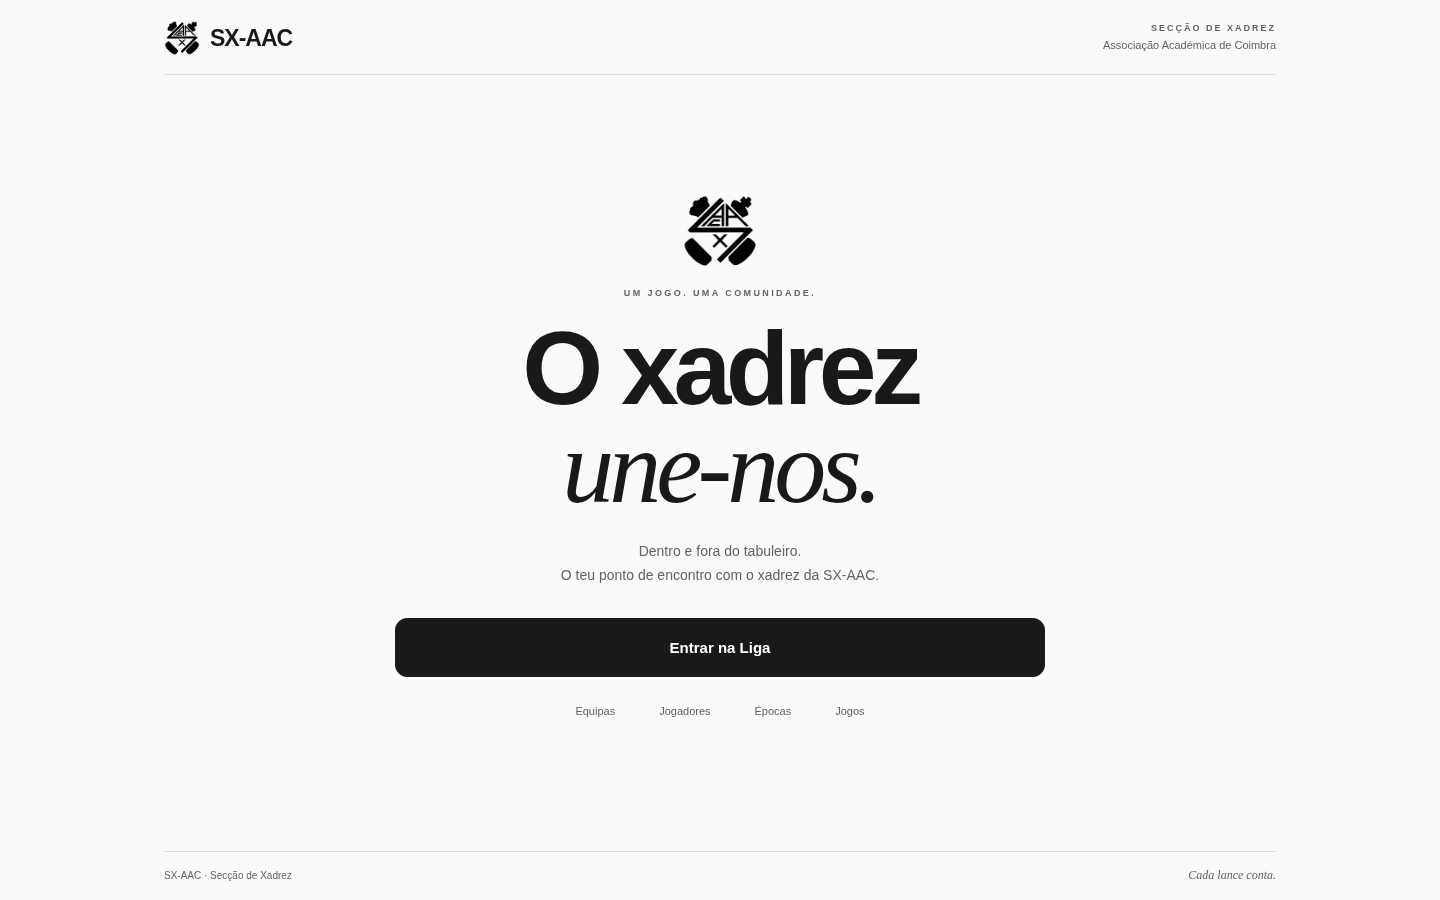
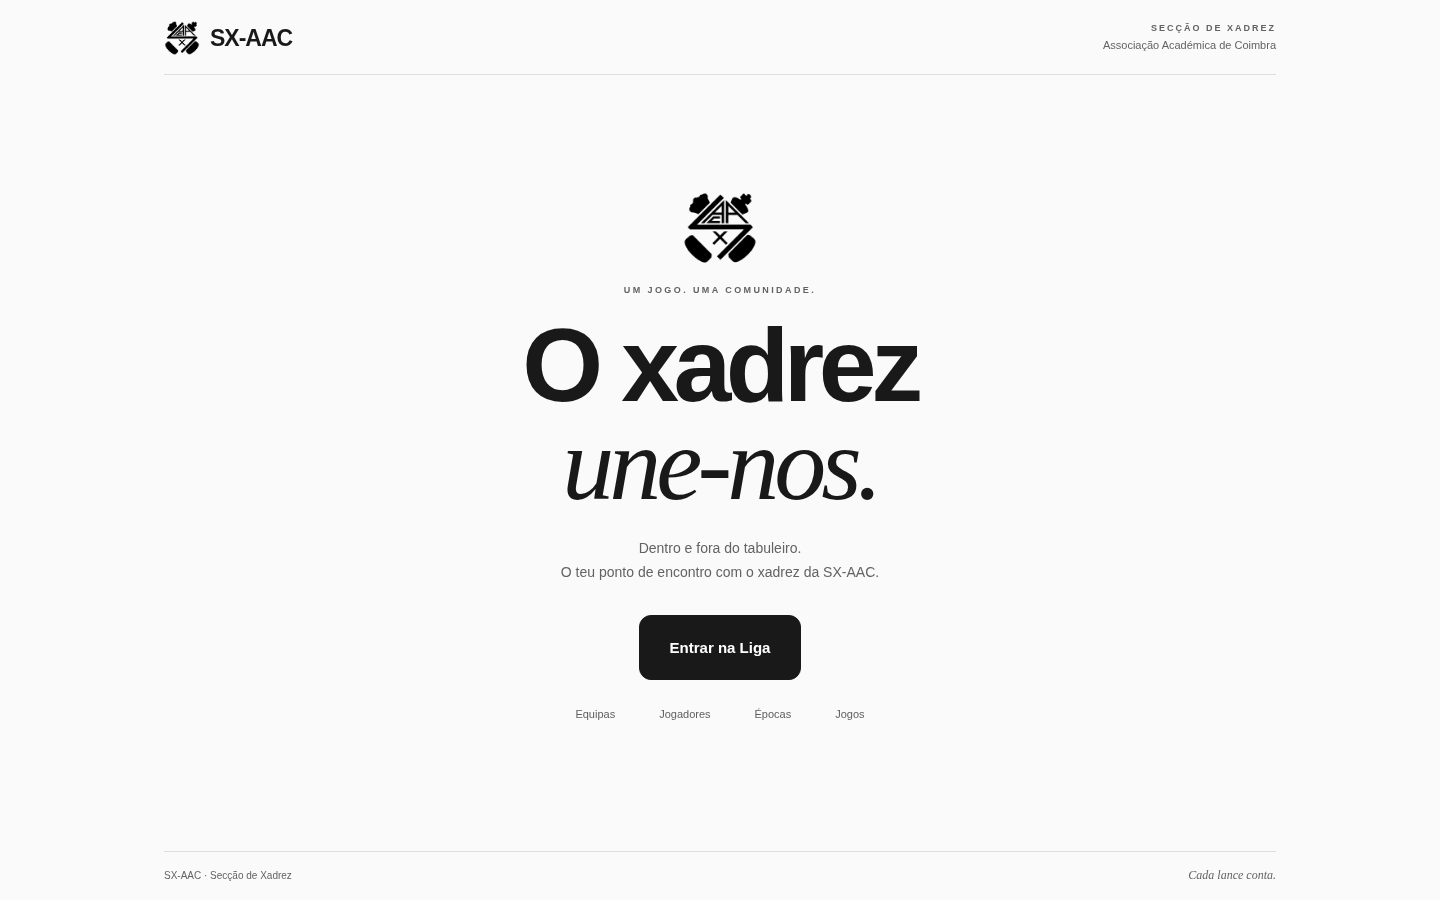
Fit landing League button to its label and increase height

diff --git a/website/landing/style.css b/website/landing/style.css
@@ -18,7 +18,7 @@ h1{font-size:clamp(62px,7.8vw,104px);font-weight:800;letter-spacing:-5.5px;line-
 h1 em{font-family:Georgia,'Times New Roman',serif;font-weight:400;letter-spacing:-5px}
 .description{font-size:14px;line-height:1.7;color:var(--muted);margin:24px 0 0}
 .league-entry{width:100%;max-width:650px}
-.league-button{display:flex;justify-content:center;align-items:center;min-height:52px;font-size:15px;font-weight:700;padding:20px 30px;background:#191919;color:#fff;border:1px solid #191919;border-radius:12px;transition:background .18s,box-shadow .18s}
+.league-button{display:flex;width:fit-content;max-width:100%;margin-inline:auto;justify-content:center;align-items:center;min-height:64px;font-size:15px;font-weight:700;padding:23px 30px;background:#191919;color:#fff;border:1px solid #191919;border-radius:12px;transition:background .18s,box-shadow .18s}
 .league-button:hover{background:#303030;box-shadow:0 8px 24px #00000012}
 .league-button:focus-visible{outline-offset:5px}
 
@@ -32,9 +32,9 @@ h1 em{font-family:Georgia,'Times New Roman',serif;font-weight:400;letter-spacing
 .quick-links a:hover{color:#191919;background:#eeeeee}
 footer{display:flex;align-items:center;justify-content:space-between;gap:16px;padding-top:14px;border-top:1px solid var(--line);font-size:10px;line-height:1.5;color:var(--muted)}
 .footer-motto{font-family:Georgia,'Times New Roman',serif;font-style:italic;font-size:12px}
-@media(max-width:650px){.page{padding:16px 22px 12px}.site-header{padding-bottom:14px}.brand{font-size:21px}.brand img{width:32px;height:32px}.header-note{font-size:7px;letter-spacing:1.3px}.association-name{font-size:9px}main{padding:22px 0;gap:26px}.hero-emblem{width:60px;height:60px;margin-bottom:17px}.eyebrow{font-size:8px;letter-spacing:1.8px;margin-bottom:20px}h1{font-size:clamp(60px,16vw,82px);letter-spacing:-3.5px}h1 em{letter-spacing:-3px}.description{font-size:12px;margin-top:20px;line-height:1.65}.league-button{padding:20px;gap:12px}.quick-links{gap:0;margin-top:8px}.quick-links a{padding-inline:15px;font-size:10px}footer{font-size:9px}.footer-motto{font-size:10px}}
-@media(max-width:360px){.page{padding-inline:18px}.league-button{padding:18px 14px}.quick-links a{padding-inline:12px}}
-@media(max-height:780px){.page{padding-block:12px}.site-header{padding-bottom:10px}main{gap:18px;padding:18px 0}.hero-emblem{width:44px;height:44px;margin-bottom:12px}.eyebrow{margin-bottom:14px}h1{font-size:64px;letter-spacing:-3px}h1 em{letter-spacing:-3px}.description{margin-top:16px}.league-button{padding-block:18px}footer{padding-top:10px}}
-@media(max-height:570px){main{gap:12px;padding:12px 0}.hero-emblem{width:32px;height:32px;margin-bottom:8px}.eyebrow{margin-bottom:10px}h1{font-size:50px;letter-spacing:-2px}h1 em{letter-spacing:-2px}.description{font-size:12px;margin-top:12px}.league-button{padding-block:14px}.quick-links{margin-top:4px}}
-@media(max-height:450px){.page{padding-block:8px}.site-header{padding-bottom:8px}.brand{font-size:19px}.brand img{width:26px;height:26px}.hero-emblem{display:none}main{padding:10px 0;gap:10px}.eyebrow{margin-bottom:8px;font-size:8px}h1{font-size:42px;letter-spacing:-1.5px}h1 br{display:none}h1 em{letter-spacing:-2px}.description{font-size:11px;margin-top:8px}.description br{display:none}.league-button{padding:12px 20px}.quick-links a{min-height:36px}footer{padding-top:8px;font-size:9px}.footer-motto{font-size:10px}}
+@media(max-width:650px){.page{padding:16px 22px 12px}.site-header{padding-bottom:14px}.brand{font-size:21px}.brand img{width:32px;height:32px}.header-note{font-size:7px;letter-spacing:1.3px}.association-name{font-size:9px}main{padding:22px 0;gap:26px}.hero-emblem{width:60px;height:60px;margin-bottom:17px}.eyebrow{font-size:8px;letter-spacing:1.8px;margin-bottom:20px}h1{font-size:clamp(60px,16vw,82px);letter-spacing:-3.5px}h1 em{letter-spacing:-3px}.description{font-size:12px;margin-top:20px;line-height:1.65}.quick-links{gap:0;margin-top:8px}.quick-links a{padding-inline:15px;font-size:10px}footer{font-size:9px}.footer-motto{font-size:10px}}
+@media(max-width:360px){.page{padding-inline:18px}.quick-links a{padding-inline:12px}}
+@media(max-height:780px){.page{padding-block:12px}.site-header{padding-bottom:10px}main{gap:18px;padding:18px 0}.hero-emblem{width:44px;height:44px;margin-bottom:12px}.eyebrow{margin-bottom:14px}h1{font-size:64px;letter-spacing:-3px}h1 em{letter-spacing:-3px}.description{margin-top:16px}footer{padding-top:10px}}
+@media(max-height:570px){main{gap:12px;padding:12px 0}.hero-emblem{width:32px;height:32px;margin-bottom:8px}.eyebrow{margin-bottom:10px}h1{font-size:50px;letter-spacing:-2px}h1 em{letter-spacing:-2px}.description{font-size:12px;margin-top:12px}.quick-links{margin-top:4px}}
+@media(max-height:450px){.page{padding-block:8px}.site-header{padding-bottom:8px}.brand{font-size:19px}.brand img{width:26px;height:26px}.hero-emblem{display:none}main{padding:10px 0;gap:10px}.eyebrow{margin-bottom:8px;font-size:8px}h1{font-size:42px;letter-spacing:-1.5px}h1 br{display:none}h1 em{letter-spacing:-2px}.description{font-size:11px;margin-top:8px}.description br{display:none}.league-button{min-height:56px;padding:18px 30px}.quick-links a{min-height:36px}footer{padding-top:8px;font-size:9px}.footer-motto{font-size:10px}}
 @media(prefers-reduced-motion:reduce){.league-button,.quick-links a{transition:none}}

diff --git a/website/templates/base.html b/website/templates/base.html
@@ -8,13 +8,13 @@
   <link rel="icon" href="/static/favicon.ico" sizes="any">
   <link rel="icon" type="image/png" href="/static/favicon-32.png" sizes="32x32">
   <link rel="apple-touch-icon" href="/static/apple-touch-icon.png">
-  <script src="/static/theme.js?v=82"></script>
-  <link rel="stylesheet" href="/static/style.css?v=82">
-  <link rel="stylesheet" href="/static/dark.css?v=82">
-  <link rel="stylesheet" href="/static/theme.css?v=82">
-  <script defer src="/static/i18n.js?v=82"></script>
-  <script defer src="/static/app.js?v=82"></script>
-  <script defer src="/static/board-settings.js?v=82"></script>
+  <script src="/static/theme.js?v=83"></script>
+  <link rel="stylesheet" href="/static/style.css?v=83">
+  <link rel="stylesheet" href="/static/dark.css?v=83">
+  <link rel="stylesheet" href="/static/theme.css?v=83">
+  <script defer src="/static/i18n.js?v=83"></script>
+  <script defer src="/static/app.js?v=83"></script>
+  <script defer src="/static/board-settings.js?v=83"></script>
   {% block page_assets %}{% endblock %}
 </head>
 <body{% if request.url.path == "/" %} class="home-theme"{% elif request.url.path == "/games" %} class="games-list-page"{% elif request.url.path.startswith("/games/") %} class="game-page"{% elif request.url.path.startswith("/matches/") %} class="match-page"{% endif %}>

diff --git a/website/templates/game_detail.html b/website/templates/game_detail.html
@@ -18,8 +18,8 @@
       </div>
     </div>
     <script type="application/json" id="replay-data">{{ replay|tojson }}</script>
-    <script defer src="/static/chess-replay.js?v=82"></script>
-    <script defer src="/static/board-resize.js?v=82"></script>
+    <script defer src="/static/chess-replay.js?v=83"></script>
+    <script defer src="/static/board-resize.js?v=83"></script>
   {% elif pgn_available %}
   <div class="game-matchup">
     <div class="game-side"><div class="game-piece-token white" aria-hidden="true">♔</div><span>WHITE</span><strong data-no-i18n>{% if game.white_user_id %}<a href="/users/{{ game.white_username|urlencode }}">{{ game.white_name }}</a>{% else %}{{ game.white_name }}{% endif %}</strong>{% if game.white_team_name %}<small><span>Team at match:</span> <span data-no-i18n>{{ game.white_team_name }}</span></small>{% endif %}</div>

diff --git a/website/templates/games.html b/website/templates/games.html
@@ -1,6 +1,6 @@
 {% extends 'base.html' %}
 {% block title %}Chess games{% endblock %}
-{% block page_assets %}<link rel="stylesheet" href="/static/games-directory.css?v=82"><script defer src="/static/games-directory.js?v=82"></script>{% endblock %}
+{% block page_assets %}<link rel="stylesheet" href="/static/games-directory.css?v=83"><script defer src="/static/games-directory.js?v=83"></script>{% endblock %}
 {% block content %}
 <div class="page-banner"><div class="container"><div class="eyebrow">THE PLAYING HALL</div><h1>Fixtures &amp; <em>results.</em></h1><p>Follow every club chess game, view results and replay recorded PGN games.</p></div></div>
 <section class="section container games-directory">

diff --git a/website/landing/index.html b/website/landing/index.html
@@ -8,7 +8,7 @@
   <title>SX-AAC · Secção de Xadrez</title>
   <link rel="canonical" href="https://www.sx-aac.com/">
   <link rel="icon" href="/logo.png" type="image/png">
-  <link rel="stylesheet" href="/style.css?v=82">
+  <link rel="stylesheet" href="/style.css?v=83">
 </head>
 <body>
   <div class="page">

diff --git a/website/tests/test_v21_monochrome_informal.py b/website/tests/test_v21_monochrome_informal.py
@@ -28,8 +28,8 @@ def test_casual_portuguese_but_english_templates_unchanged(client):
     assert cat['Represent your team on the chessboard and follow your achievements throughout the league.'].startswith('Representa a tua equipa')
     assert 'O administrador tem de' in cat['Your account is registered. The administrator must add a chess player and link it to your username before you appear in the player directory and can enter transfer auctions.']
     assert 'pelos seus jogadores' in next(v for k,v in cat.items() if k.startswith('Every point counts. The team with the most combined player fantasy points leads'))
-    assert 'src="/static/i18n.js?v=82"' in client.get('/').text
-    assert 'href="/static/style.css?v=82"' in client.get('/').text
+    assert 'src="/static/i18n.js?v=83"' in client.get('/').text
+    assert 'href="/static/style.css?v=83"' in client.get('/').text
     assert 'Play. Compete.' in client.get('/').text
     assert 'Lead your team.' in client.get('/').text
     js = (ROOT/'static/i18n.js').read_text()

diff --git a/website/tests/test_v12_language_and_pieces.py b/website/tests/test_v12_language_and_pieces.py
@@ -12,7 +12,7 @@ def test_language_switch_is_in_global_nav_and_portuguese_is_default(client):
         assert response.status_code == 200
         html = response.text
         assert '<html lang="pt-PT">' in html
-        assert 'src="/static/i18n.js?v=82"' in html
+        assert 'src="/static/i18n.js?v=83"' in html
         assert 'id="language-toggle"' in html
         assert 'id="language-flag"' in html
         assert 'src="/static/flags/pt.svg"' in html and 'Português (Portugal)' in html

diff --git a/website/tests/test_v23_navigation_translation.py b/website/tests/test_v23_navigation_translation.py
@@ -20,4 +20,4 @@ def test_informal_portuguese_is_built_into_browser_bundle(client):
     catalogue = json.loads((ROOT/'static/pt-PT.json').read_text())
     assert catalogue['Join your club'] == 'Junta-te ao clube'
     assert '"Join your club":"Junta-te ao clube"' in client.get('/static/i18n.js').text
-    assert 'i18n.js?v=82' in client.get('/').text
+    assert 'i18n.js?v=83' in client.get('/').text

diff --git a/website/tests/test_v22_unified_theme.py b/website/tests/test_v22_unified_theme.py
@@ -26,4 +26,4 @@ def test_shared_monochrome_rules_on_other_pages(client):
     assert '.btn-primary{background:#1d1e1f' in css
     assert '.replay-square.light{background:#efefef' in css
     assert '.replay-square.dark{background:#949494' in css
-    assert 'style.css?v=82' in client.get('/players').text
+    assert 'style.css?v=83' in client.get('/players').text

diff --git a/scripts/package-website.py b/scripts/package-website.py
@@ -7,7 +7,7 @@ from zipfile import ZipFile, ZipInfo, ZIP_DEFLATED
 
 ROOT = Path(__file__).resolve().parents[1]
 WEBSITE = ROOT / 'website'
-VERSION = '82'
+VERSION = '83'
 
 
 def source_files():

diff --git a/README.md b/README.md
@@ -1,6 +1,6 @@
 # Liga SX-AAC
 
-This repository contains the **v82 league website** and the **1.1.0 mobile apps** for https://liga.sx-aac.com.
+This repository contains the **v83 league website** and the **1.1.0 mobile apps** for https://liga.sx-aac.com.
 
 ## Club landing page
 
@@ -8,7 +8,7 @@ The centered black-and-white page for **www.sx-aac.com** is in [`website/landing
 
 [Desktop preview](docs/previews/sx-aac-landing-desktop.png) · [Mobile preview](docs/previews/sx-aac-landing-mobile.png)
 
-## Website — v82
+## Website — v83
 
 The website source is in [`website/`](website/). V35 adds round filtering, explicit home-versus-away fixture headings, and season league standings using 3/1/0 match points; fantasy-point displays and adjustment controls are removed. V34 adds current team affiliation and join dates to profile headers, final match winner/draw highlights, a round schedule in Results, and corrected responsive dark backgrounds. V33 introduces captain terminology, compact profile-header career results, clearer seasonal squad cards with join/leave dates, simpler team sorting and stronger dark-mode section contrast. V32 permits shared FIDE IDs, adds all-season player wins/draws/losses, introduces persistent site-wide dark mode, renames the season calendar Results, and shows each archived squad member’s chess score/games played. V31 adds direct invitation cancellation in team management, a red remove-manager icon, and automatic availability after an administrator removes a manager, allowing reinvitation to the same team. Before kickoff, lineups are visible only within their own team; board pairings and associated game/PGN pages remain hidden from every viewer until kickoff. V30 adds team profile pictures uploaded, replaced and removed by the currently assigned manager. Pictures also appear in the directory, standings, fixtures and match scoreboards, and are included in SQLite backups. V29 adds a redesigned administration dashboard with dedicated management workspaces, the ♔ transfer-currency symbol, and green/red/grey results on player profiles. V28 adds gold, silver and bronze team-profile medals engraved with the season year. Completed seasons use 3/1/0 team-match points and head-to-head tiebreaks. V27 opens Seasons on the current season even before publication, adds a season dropdown, and redesigns round results and match scoreboards for desktop and mobile. V26 requires both username and email for password recovery, improves the recovery page, explains deactivated-account login failures, and renders Criar conta on Portuguese registration. A private VM generator adds two completed six-round demonstration seasons using current teams and rosters while retaining accounts. Account settings, automatic FIDE standard ratings, season scheduling, lineups, auctions, scoring, backups and public PGN replay remain available. Keep SMTP credentials private on the VM; the default public FIDE lookup needs no API key. See the hosting guide for upgrades and database generation.
 

diff --git a/website/HOSTING.md b/website/HOSTING.md
@@ -6,7 +6,7 @@ and downloads are public for visible games.
 
 ## Club landing page at www.sx-aac.com
 
-The v82 release includes a static Portuguese landing page in `landing/`. Its
+The v83 release includes a static Portuguese landing page in `landing/`. Its
 League button opens `https://liga.sx-aac.com/`. Caddy serves the landing page at
 `www.sx-aac.com` and redirects `sx-aac.com` to the www address, while retaining
 the existing League configuration.
@@ -40,7 +40,7 @@ instead of using the shared VM.
 For later changes affecting only the landing page, copy just the release's
 `landing/` directory into `/opt/clubdraft/landing/`. The existing Caddy directory
 mount serves the changed files immediately; the League does not need to stop or
-rebuild. The v82 landing page is centered, monochrome and has no chessboard.
+rebuild. The v83 landing page is centered, monochrome and has no chessboard.
 
 ## Upgrade an existing server
 
@@ -65,7 +65,7 @@ instructions, not evidence that this workspace has changed the live website.
    sudo docker compose down
    sudo rsync -a --exclude='/.env' --exclude='/data/' --exclude='/backups/' \
      --exclude='/secrets/' --exclude='/.venv/' --exclude='/__pycache__/' \
-     ~/chess-fantasy-league-v82/ /opt/clubdraft/
+     ~/chess-fantasy-league-v83/ /opt/clubdraft/
    sudo mkdir -p data backups
    sudo chown -R 10001:10001 data backups
    sudo chmod 700 data backups
@@ -88,7 +88,7 @@ instructions, not evidence that this workspace has changed the live website.
 
 ## V35 release extraction and configuration
 
-The standalone release ZIP has `chess-fantasy-league-v82/` at its root. GitHub's
+The standalone release ZIP has `chess-fantasy-league-v83/` at its root. GitHub's
 Download ZIP instead contains `liga-main/website/` (or `liga-COMMIT/website/`
 for a commit archive). Copy the directory containing
 `main.py`, `compose.yaml`, and `league_migrations.py`; copying `liga-main/` directly
@@ -99,10 +99,10 @@ Use a fresh extraction directory, validate it before downtime, and stop on error
 ```bash
 (
   set -e
-  ZIP="$HOME/chess-fantasy-league-v82.zip"
-  RELEASE_DIR="$(mktemp -d "$HOME/liga-v82-release.XXXXXX")"
+  ZIP="$HOME/chess-fantasy-league-v83.zip"
+  RELEASE_DIR="$(mktemp -d "$HOME/liga-v83-release.XXXXXX")"
   unzip -q "$ZIP" -d "$RELEASE_DIR"
-  SOURCE_DIR="$RELEASE_DIR/chess-fantasy-league-v82"
+  SOURCE_DIR="$RELEASE_DIR/chess-fantasy-league-v83"
   if [ ! -f "$SOURCE_DIR/main.py" ]; then
     for CANDIDATE in "$RELEASE_DIR"/liga-*/website; do
       if [ -f "$CANDIDATE/main.py" ]; then
